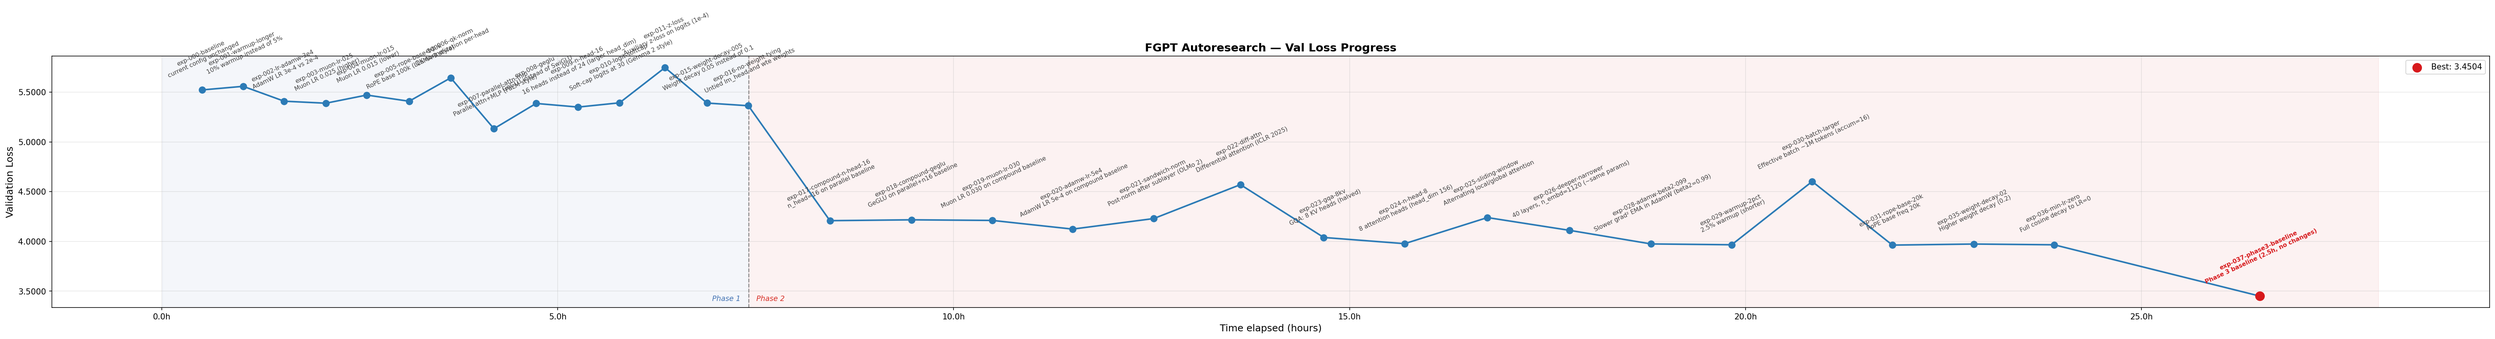
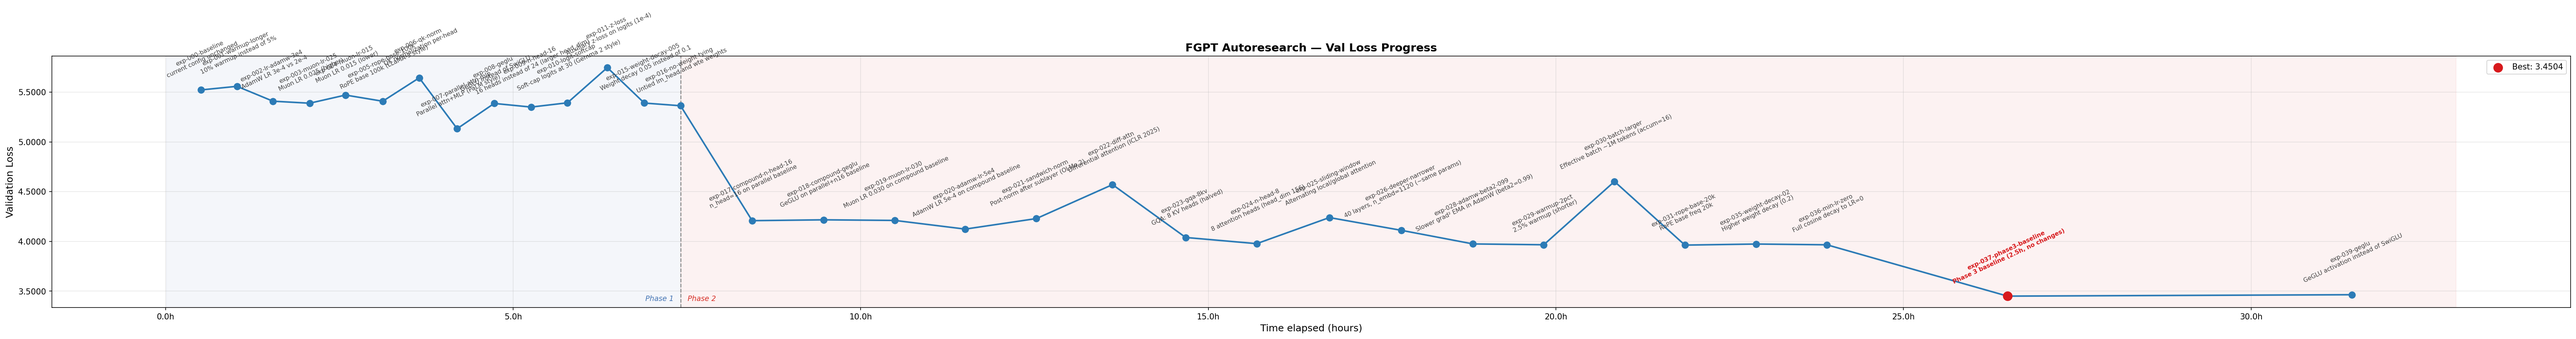
results: exp-040-muon-lr-030 | val_loss=3.4740

diff --git a/src/fgpt/model.py b/src/fgpt/model.py
@@ -110,7 +110,7 @@ class MLP(nn.Module):
     def forward(self, x):
         w13_out = self.w13(x)
         w1_out, w3_out = w13_out.split(self.hidden_dim, dim=-1)
-        return self.w2(F.gelu(w1_out) * w3_out)
+        return self.w2(F.silu(w1_out) * w3_out)
 
 
 class Block(nn.Module):

diff --git a/AUTORESEARCH.md b/AUTORESEARCH.md
@@ -205,36 +205,37 @@ The first two experiments (017, 018) re-validate the other phase 1 architectural
 |------|-----|----------|-------------|
 | 1 | `exp-037-phase3-baseline` | 3.4504 | Phase 3 baseline (2.5h, no changes) |
 | 2 | `exp-039-geglu` | 3.4646 | GeGLU activation instead of SwiGLU |
-| 3 | `exp-031-rope-base-20k` | 3.9634 | RoPE base freq 20k |
-| 4 | `exp-036-min-lr-zero` | 3.9664 | Full cosine decay to LR=0 |
-| 5 | `exp-029-warmup-2pct` | 3.9667 | 2.5% warmup (shorter) |
-| 6 | `exp-035-weight-decay-02` | 3.9741 | Higher weight decay (0.2) |
-| 7 | `exp-028-adamw-beta2-099` | 3.9751 | Slower grad² EMA in AdamW (beta2=0.99) |
-| 8 | `exp-024-n-head-8` | 3.9780 | 8 attention heads (head_dim 156) |
-| 9 | `exp-023-gqa-8kv` | 4.0400 | GQA: 8 KV heads (halved) |
-| 10 | `exp-026-deeper-narrower` | 4.1115 | 40 layers, n_embd=1120 (~same params) |
-| 11 | `exp-020-adamw-lr-5e4` | 4.1243 | AdamW LR 5e-4 on compound baseline |
-| 12 | `exp-017-compound-n-head-16` | 4.2090 | n_head=16 on parallel baseline |
-| 13 | `exp-019-muon-lr-030` | 4.2114 | Muon LR 0.030 on compound baseline |
-| 14 | `exp-018-compound-geglu` | 4.2176 | GeGLU on parallel+n16 baseline |
-| 15 | `exp-021-sandwich-norm` | 4.2302 | Post-norm after sublayer (OLMo 2) |
-| 16 | `exp-025-sliding-window` | 4.2402 | Alternating local/global attention |
-| 17 | `exp-022-diff-attn` | 4.5714 | Differential attention (ICLR 2025) |
-| 18 | `exp-030-batch-larger` | 4.6031 | Effective batch ~1M tokens (accum=16) |
-| 19 | `exp-007-parallel-attn-mlp` | 5.1336 | Parallel attn+MLP (PaLM style) |
-| 20 | `exp-009-n-head-16` | 5.3510 | 16 heads instead of 24 (larger head_dim) |
-| 21 | `exp-016-no-weight-tying` | 5.3643 | Untied lm_head and wte weights |
-| 22 | `exp-008-geglu` | 5.3875 | GeGLU instead of SwiGLU |
-| 23 | `exp-003-muon-lr-025` | 5.3898 | Muon LR 0.025 (higher) |
-| 24 | `exp-015-weight-decay-005` | 5.3914 | Weight decay 0.05 instead of 0.1 |
-| 25 | `exp-010-logit-softcap` | 5.3939 | Soft-cap logits at 30 (Gemma 2 style) |
-| 26 | `exp-005-rope-base-100k` | 5.4097 | RoPE base 100k (LLaMA-3 style) |
-| 27 | `exp-002-lr-adamw-3e4` | 5.4101 | AdamW LR 3e-4 vs 2e-4 |
-| 28 | `exp-004-muon-lr-015` | 5.4718 | Muon LR 0.015 (lower) |
-| 29 | `exp-000-baseline` | 5.5235 | current config unchanged |
-| 30 | `exp-001-warmup-longer` | 5.5596 | 10% warmup instead of 5% |
-| 31 | `exp-006-qk-norm` | 5.6449 | QK normalization per-head |
-| 32 | `exp-011-z-loss` | 5.7478 | Auxiliary z-loss on logits (1e-4) |
+| 3 | `exp-040-muon-lr-030` | 3.4740 | Muon LR 0.030 (vs 0.025 baseline) |
+| 4 | `exp-031-rope-base-20k` | 3.9634 | RoPE base freq 20k |
+| 5 | `exp-036-min-lr-zero` | 3.9664 | Full cosine decay to LR=0 |
+| 6 | `exp-029-warmup-2pct` | 3.9667 | 2.5% warmup (shorter) |
+| 7 | `exp-035-weight-decay-02` | 3.9741 | Higher weight decay (0.2) |
+| 8 | `exp-028-adamw-beta2-099` | 3.9751 | Slower grad² EMA in AdamW (beta2=0.99) |
+| 9 | `exp-024-n-head-8` | 3.9780 | 8 attention heads (head_dim 156) |
+| 10 | `exp-023-gqa-8kv` | 4.0400 | GQA: 8 KV heads (halved) |
+| 11 | `exp-026-deeper-narrower` | 4.1115 | 40 layers, n_embd=1120 (~same params) |
+| 12 | `exp-020-adamw-lr-5e4` | 4.1243 | AdamW LR 5e-4 on compound baseline |
+| 13 | `exp-017-compound-n-head-16` | 4.2090 | n_head=16 on parallel baseline |
+| 14 | `exp-019-muon-lr-030` | 4.2114 | Muon LR 0.030 on compound baseline |
+| 15 | `exp-018-compound-geglu` | 4.2176 | GeGLU on parallel+n16 baseline |
+| 16 | `exp-021-sandwich-norm` | 4.2302 | Post-norm after sublayer (OLMo 2) |
+| 17 | `exp-025-sliding-window` | 4.2402 | Alternating local/global attention |
+| 18 | `exp-022-diff-attn` | 4.5714 | Differential attention (ICLR 2025) |
+| 19 | `exp-030-batch-larger` | 4.6031 | Effective batch ~1M tokens (accum=16) |
+| 20 | `exp-007-parallel-attn-mlp` | 5.1336 | Parallel attn+MLP (PaLM style) |
+| 21 | `exp-009-n-head-16` | 5.3510 | 16 heads instead of 24 (larger head_dim) |
+| 22 | `exp-016-no-weight-tying` | 5.3643 | Untied lm_head and wte weights |
+| 23 | `exp-008-geglu` | 5.3875 | GeGLU instead of SwiGLU |
+| 24 | `exp-003-muon-lr-025` | 5.3898 | Muon LR 0.025 (higher) |
+| 25 | `exp-015-weight-decay-005` | 5.3914 | Weight decay 0.05 instead of 0.1 |
+| 26 | `exp-010-logit-softcap` | 5.3939 | Soft-cap logits at 30 (Gemma 2 style) |
+| 27 | `exp-005-rope-base-100k` | 5.4097 | RoPE base 100k (LLaMA-3 style) |
+| 28 | `exp-002-lr-adamw-3e4` | 5.4101 | AdamW LR 3e-4 vs 2e-4 |
+| 29 | `exp-004-muon-lr-015` | 5.4718 | Muon LR 0.015 (lower) |
+| 30 | `exp-000-baseline` | 5.5235 | current config unchanged |
+| 31 | `exp-001-warmup-longer` | 5.5596 | 10% warmup instead of 5% |
+| 32 | `exp-006-qk-norm` | 5.6449 | QK normalization per-head |
+| 33 | `exp-011-z-loss` | 5.7478 | Auxiliary z-loss on logits (1e-4) |
 
 *Auto-updated by `run_experiment.py` after each run — see `experiments/results.jsonl` for full data.*
 

diff --git a/experiments/notes/exp-040-muon-lr-030.md b/experiments/notes/exp-040-muon-lr-030.md
@@ -1,0 +1,27 @@
+# exp-040-muon-lr-030
+
+**Description:** Muon LR 0.030 (vs 0.025 baseline)  
+**Val loss:** 3.4740  
+**Duration:** 150.3 min  
+**Seed:** 42  
+**Date:** 2026-04-13 21:33  
+
+## Hyperparameters
+
+| Parameter | Value |
+|-----------|-------|
+| AdamW LR | 0.0005 |
+| Muon LR | 0.03 |
+| Warmup | 2.5% |
+| Accum steps | 8 |
+| Min LR ratio | 0.05 |
+| RoPE base | 20000 |
+| n_head | 8 |
+
+## Reasoning
+
+Phase 2 baseline uses muon_lr=0.025 (merged from earlier experiments). Testing a slightly higher Muon LR of 0.030 — Muon handles larger LRs well due to its Newton-Schulz orthogonalization. If the optimizer is slightly under-stepped at 0.025, 0.030 could drive faster convergence.
+
+## Outcome
+
+**Better than baseline** (3.4740 vs 5.5235, -2.0494 better than baseline).
